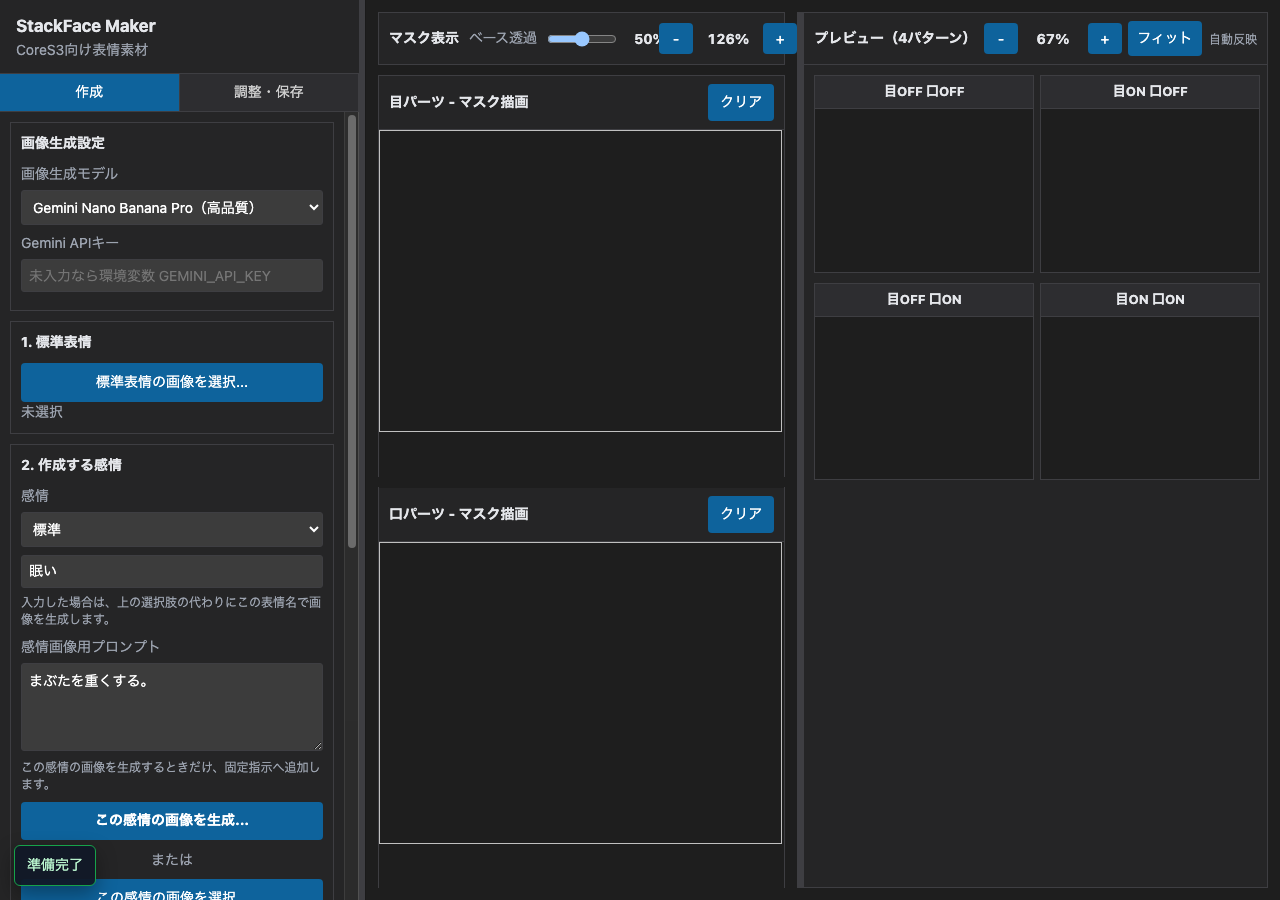
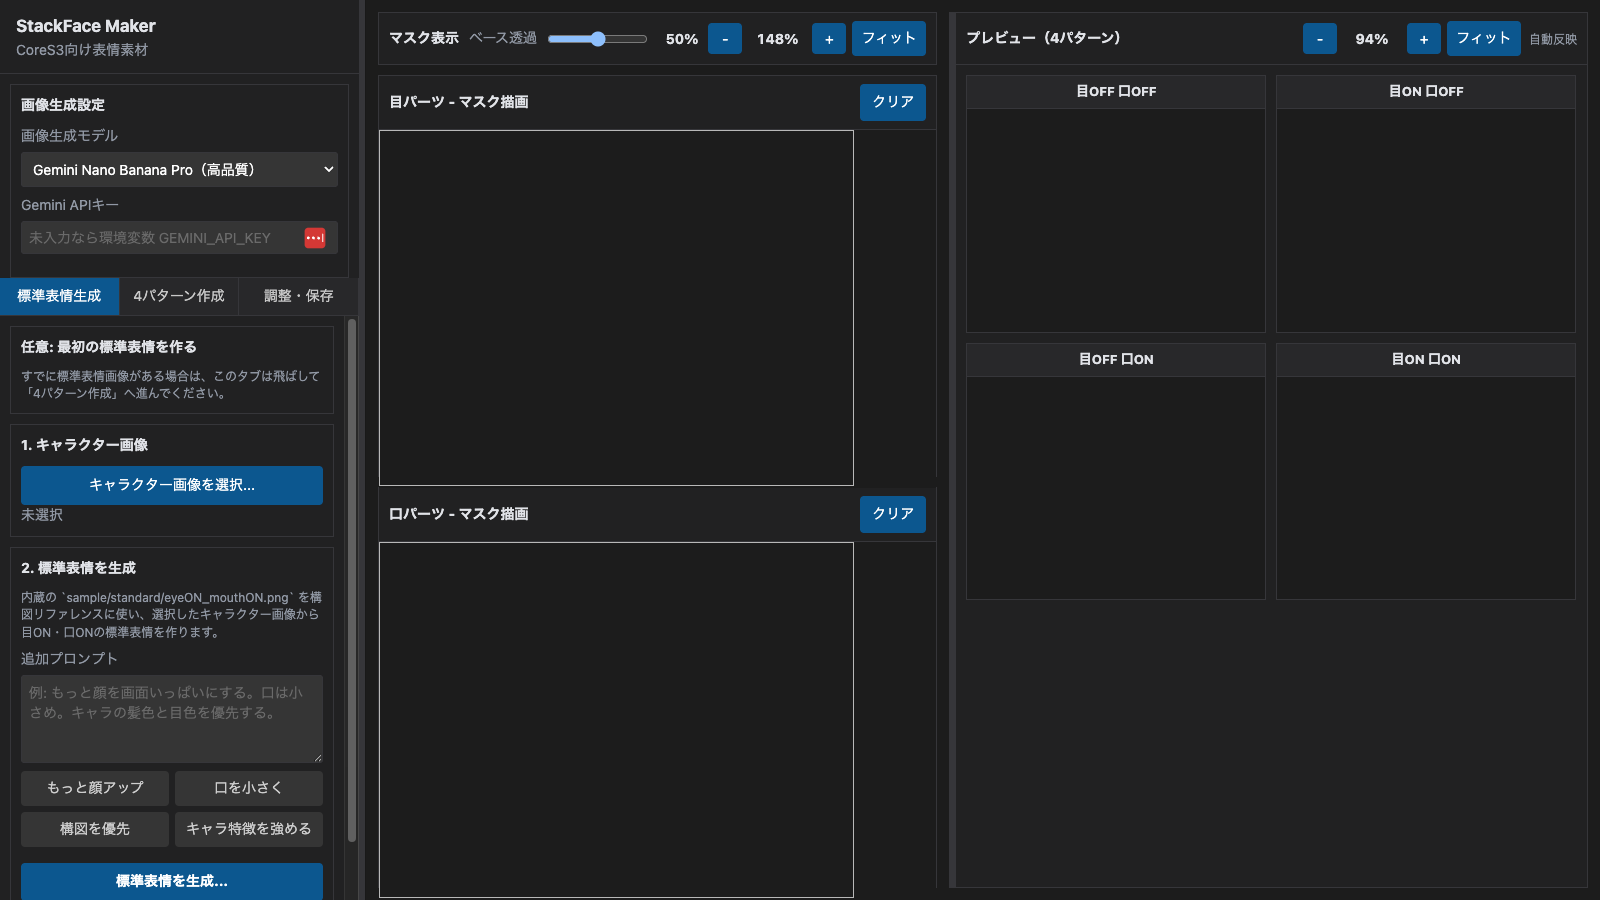
docs: update StackFace Maker article

diff --git a/content/posts/stackface-maker.md b/content/posts/stackface-maker.md
@@ -24,7 +24,9 @@ thumbnail: "/static/images/posts/stackface-maker/thumbnail.png"
 
 ## StackFace Makerでできること
 
-StackFace Makerは、ざっくり言うと**1枚の顔画像から、目ON/OFF × 口ON/OFFの4パターン x 表情差分を作るツール**です。
+StackFace Makerは、ざっくり言うと**キャラクター画像から標準表情を作り、そこから目ON/OFF × 口ON/OFFの4パターン x 表情差分を作るツール**です。
+
+もちろん、すでに標準表情の画像を用意できている場合は、標準表情生成を飛ばしてそのまま4パターン作成に進めます。
 
 Stack CoreS3の画面は320x240なので、最終的にはこのサイズのPNGとして保存します。
 
@@ -58,13 +60,30 @@ uv run python web_app.py
 ## 使ってみる
 
 画面は左側に操作パネル、右側にマスクとプレビューがある構成です。
-作成タブでは、標準表情、作成したい感情、反対状態の画像を順番に指定します。
+左側には「標準表情生成」「4パターン作成」「調整・保存」のタブがあります。
 画像生成を使う場合は、最初にモデルとAPIキーを設定します。
 
-![StackFace Makerの作成画面](/static/images/posts/stackface-maker/01-create.png)
+![StackFace Makerの標準表情生成画面](/static/images/posts/stackface-maker/01-create.png)
+
+## 任意: 最初の標準表情を作る
+
+最初の標準表情画像がまだない場合は、「標準表情生成」タブを使います。
+
+ここでは、作りたいキャラクター画像を選択して「標準表情を生成」を押します。
+内部で、リポジトリに含まれている `sample/standard/eyeON_mouthON.png` を構図リファレンスとして使い、選択したキャラクター画像の髪型・目・雰囲気を反映した標準表情を生成します。
+
+![標準表情生成で使う構図リファレンス画像](/static/images/posts/stackface-maker/reference-eyeON-mouthON.png)
+
+生成結果がよければ、「この画像を標準表情として使う」を押すと、そのまま「4パターン作成」タブに進めます。
+少し違う結果になった場合は、追加指示を足して再生成しましょう。
+
+すでに標準表情画像を用意できている場合は、このタブは飛ばして大丈夫です。
+
+## 4パターンを作成する
 
 まずは標準表情を読み込みます。
-これだけ先に用意しておいてください。
+手元に標準表情画像がある場合は、ここでその画像を選択します。
+「標準表情生成」タブで作った画像を使う場合は、生成結果を採用した時点で標準表情としてセットされます。
 
 最終的に320x240のアスペクト比の画像を作成するので、横長4:3の画像が必要です。
 目と口の状態は、どちらでも良いですが、両方ともON（開いている）にしておくのが好みの状態になりやすいです。
@@ -116,7 +135,7 @@ eyeON_mouthON.png
 
 標準表情の4パターンが作れたら、同じ流れで別の表情も作れます。
 
-作成タブで「喜び」「悲しみ」「怒り」「考え中」などの表情を選び、「この表情の画像を生成」を押すと、標準表情を元にした表情ベース画像を作成できます。
+「4パターン作成」タブで「喜び」「悲しみ」「怒り」「考え中」などの表情を選び、「この表情の画像を生成」を押すと、標準表情を元にした表情ベース画像を作成できます。
 一覧にない表情を作りたい場合は、「驚き」「眠い」「ドヤ顔」のような名前をカスタム表情欄に入力すると、その表情名で生成できます。
 
 感情画像用プロンプトを使うと、笑顔の強さや眉の角度など、その表情だけに追加したい指示も足せます。